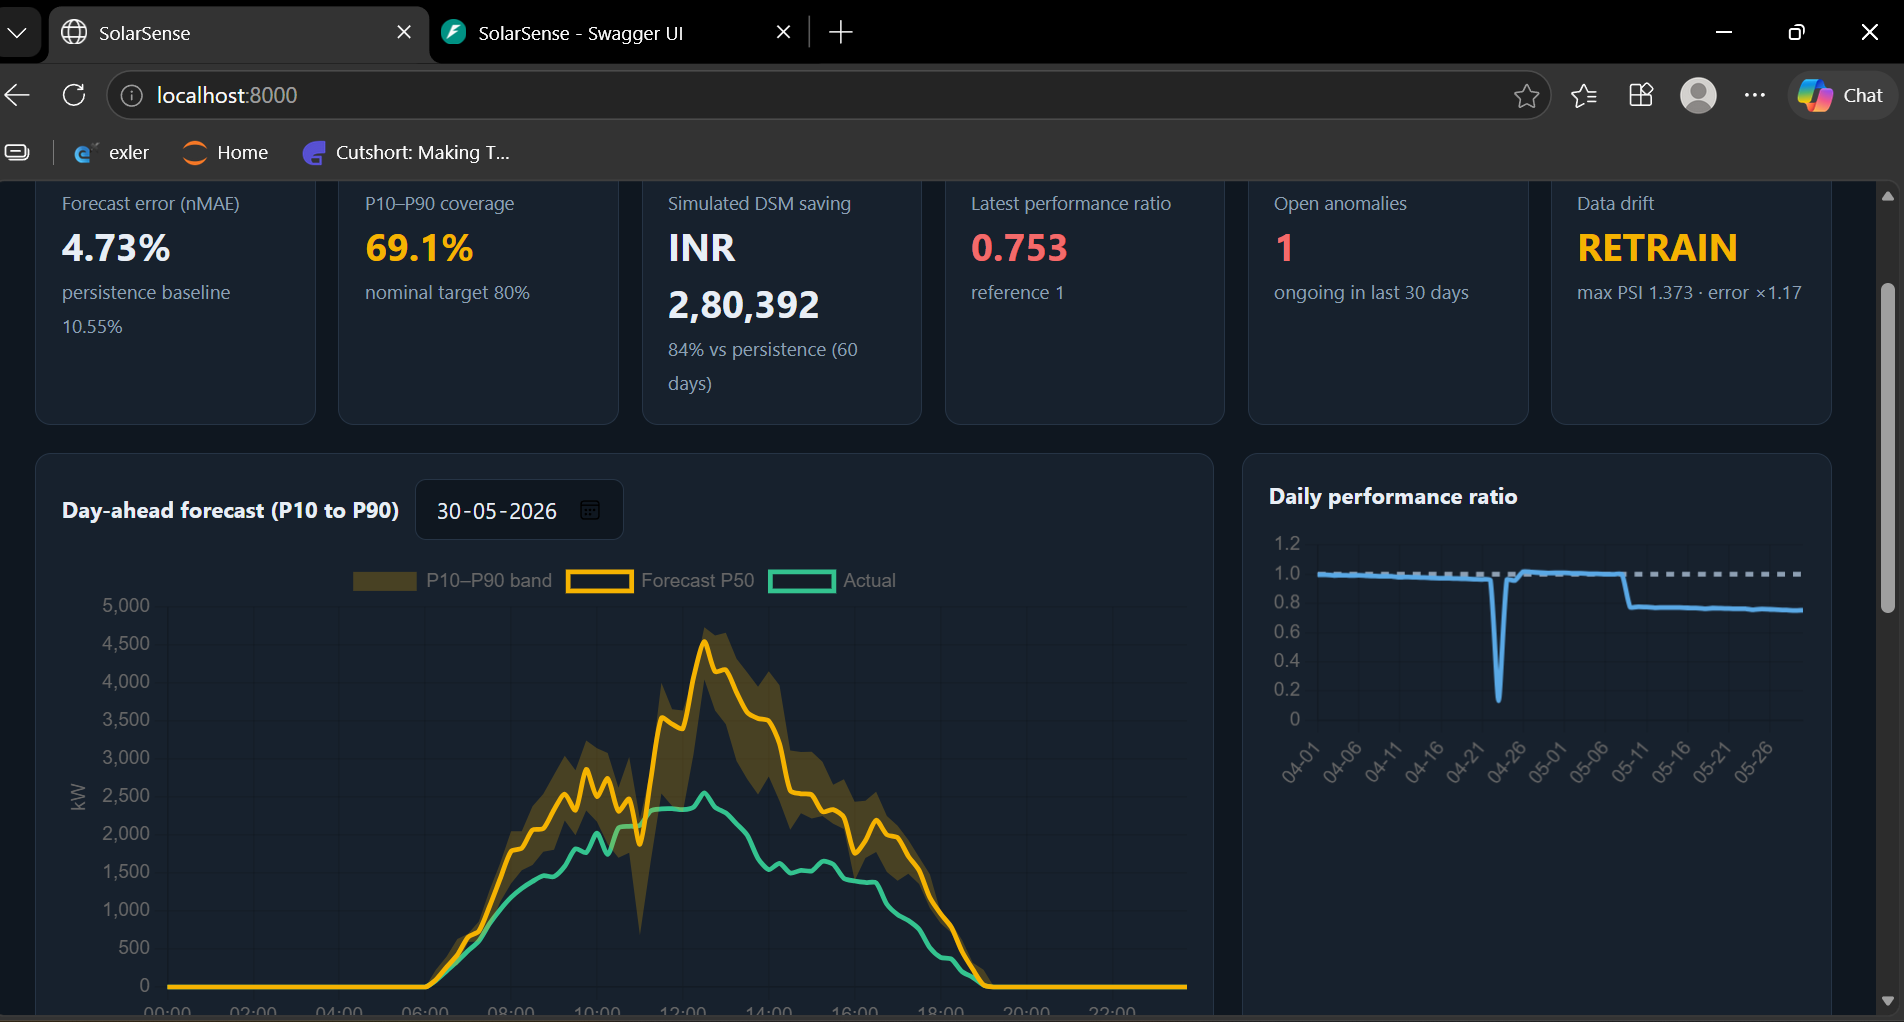
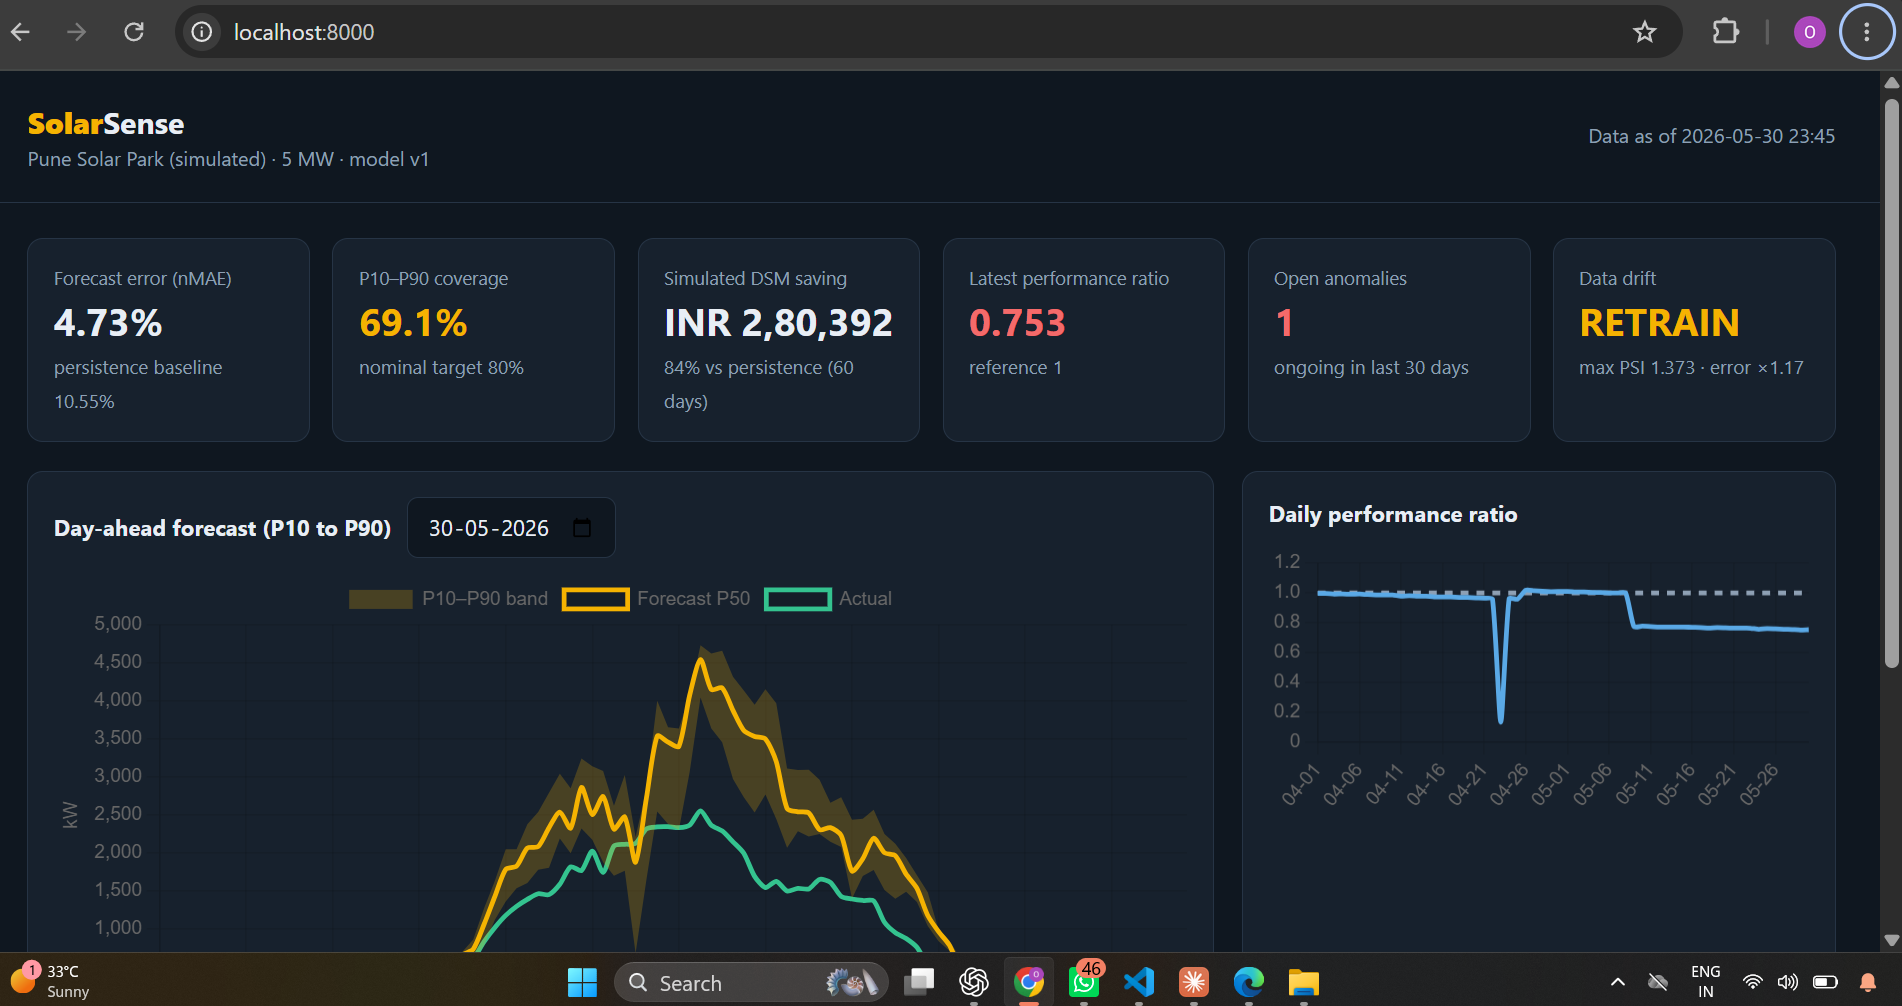
Refactor code structure for improved readability and maintainability

diff --git a/web/index.html b/web/index.html
@@ -10,15 +10,15 @@
 header{padding:18px 28px;border-bottom:1px solid var(--line);display:flex;justify-content:space-between;align-items:center;flex-wrap:wrap;gap:8px}
 h1{font-size:19px;margin:0}h1 b{color:var(--sun)}.sub{color:var(--mut);font-size:12.5px}
 main{padding:22px 28px;display:grid;gap:18px;max-width:1280px;margin:auto}
-.kpis{display:grid;grid-template-columns:repeat(auto-fit,minmax(150px,1fr));gap:14px}
+.kpis{display:grid;grid-template-columns:repeat(auto-fit,minmax(190px,1fr));gap:14px}
 .card{background:var(--card);border:1px solid var(--line);border-radius:10px;padding:16px}
 .kpi small{color:var(--mut);display:block}.kpi strong{font-size:24px}.kpi em{font-style:normal;color:var(--mut);font-size:12px}
-.grid{display:grid;grid-template-columns:2fr 1fr;gap:18px}@media(max-width:900px){.grid{grid-template-columns:1fr}}
+.grid{display:grid;align-items:start;grid-template-columns:2fr 1fr;gap:18px}@media(max-width:900px){.grid{grid-template-columns:1fr}}
 h2{font-size:14px;margin:0 0 10px}canvas{max-height:300px}
 table{width:100%;border-collapse:collapse;font-size:13px}th,td{text-align:left;padding:7px 6px;border-bottom:1px solid var(--line)}th{color:var(--mut);font-weight:500}
 .tag{padding:2px 8px;border-radius:99px;font-size:12px;font-weight:600}
 .t-inverter_outage{background:#4a1f24;color:var(--bad)}.t-string_fault{background:#4a3a14;color:var(--sun)}.t-soiling{background:#1b3a4d;color:var(--blue)}
-button,input{background:#0f1720;color:var(--ink);border:1px solid var(--line);border-radius:7px;padding:7px 12px;font:inherit}
+button,input{color-scheme:dark;background:#0f1720;color:var(--ink);border:1px solid var(--line);border-radius:7px;padding:7px 12px;font:inherit}
 button{cursor:pointer;background:var(--sun);color:#1a1300;border:0;font-weight:600}button:disabled{opacity:.6}
 .wo{border:1px solid var(--line);border-radius:8px;padding:10px;margin-top:10px}.wo ul{margin:6px 0 0 18px;padding:0;color:var(--mut)}
 pre{white-space:pre-wrap;color:var(--ink);margin:8px 0 0;font:inherit}.row{display:flex;gap:10px;align-items:center;flex-wrap:wrap;margin-bottom:10px}
@@ -34,7 +34,7 @@ pre{white-space:pre-wrap;color:var(--ink);margin:8px 0 0;font:inherit}.row{displ
     <div class="card"><h2>Daily performance ratio</h2><canvas id="pr"></canvas></div>
   </section>
   <section class="grid">
-    <div class="card"><h2>Detected anomalies (last 30 days)</h2><table><thead><tr><th>Type</th><th>Start</th><th>Loss</th><th>Revenue lost</th><th>State</th></tr></thead><tbody id="an"></tbody></table></div>
+    <div class="card"><h2>Detected anomalies</h2><table><thead><tr><th>Type</th><th>Start</th><th>Loss</th><th>Revenue lost</th><th>State</th></tr></thead><tbody id="an"></tbody></table></div>
     <div class="card"><div class="row"><h2 style="margin:0">O&amp;M agent</h2><button id="run">Run diagnosis</button></div><div id="agent" class="sub">Scans the plant, quantifies losses, prioritises and drafts work orders.</div></div>
   </section>
 </main>
@@ -47,7 +47,7 @@ const inr=n=>"INR "+Number(n).toLocaleString("en-IN");
 let fcChart,prChart;
 function kpi(label,val,note,cls=""){return `<div class="card kpi"><small>${label}</small><strong class="${cls}">${val}</strong><br><em>${note}</em></div>`}
 async function init(){
-  const [plant,dsm,drift,an,perf]=await Promise.all([j("/api/plant"),j("/api/dsm?days=60"),j("/api/drift"),j("/api/anomalies?days=30"),j("/api/performance?days=60")]);
+  const [plant,dsm,drift,an,perf]=await Promise.all([j("/api/plant"),j("/api/dsm?days=60"),j("/api/drift"),j("/api/anomalies?days=150"),j("/api/performance?days=60")]);
   $("#plant").textContent=`${plant.name} · ${plant.capacity_kw/1000} MW · model v${plant.model_version}`;
   $("#asof").textContent="Data as of "+plant.as_of.slice(0,16);
   const v=plant.validation, open=an.anomalies.filter(a=>a.ongoing).length, lastPr=perf.daily.filter(d=>d.pr!=null).slice(-1)[0];
@@ -56,9 +56,9 @@ async function init(){
     kpi("P10–P90 coverage",v.coverage_p10_p90_pct+"%","nominal target 80%",v.coverage_p10_p90_pct<75?"warn":"ok")+
     kpi("Simulated DSM saving",inr(dsm.savings_inr),`${dsm.reduction_pct}% vs persistence (60 days)`)+
     kpi("Latest performance ratio",lastPr?lastPr.pr.toFixed(3):"n/a",`reference ${perf.reference}`,lastPr&&lastPr.pr<0.9?"bad":"ok")+
-    kpi("Open anomalies",open,"ongoing in last 30 days",open?"bad":"ok")+
+    kpi("Open anomalies",open,"ongoing right now",open?"bad":"ok")+
     kpi("Data drift",drift.status.toUpperCase(),`max PSI ${drift.max_psi} · error ×${drift.error_ratio??"n/a"}`,drift.status==="ok"?"ok":"warn");
-  $("#an").innerHTML=an.anomalies.map(a=>`<tr><td><span class="tag t-${a.kind}">${esc(a.kind.replace("_"," "))}</span></td><td>${a.start.slice(0,10)}</td><td>${a.severity_pct}%</td><td>${inr(a.lost_inr)}</td><td class="${a.ongoing?"bad":"ok"}">${a.ongoing?"ONGOING":"resolved"}</td></tr>`).join("")||`<tr><td colspan="5" class="ok">No anomalies</td></tr>`;
+  $("#an").innerHTML=[...an.anomalies].reverse().map(a=>`<tr><td><span class="tag t-${a.kind}">${esc(a.kind.replace("_"," "))}</span></td><td>${a.start.slice(0,10)}</td><td>${a.severity_pct}%</td><td>${inr(a.lost_inr)}</td><td class="${a.ongoing?"bad":"ok"}">${a.ongoing?"ONGOING":"resolved"}</td></tr>`).join("")||`<tr><td colspan="5" class="ok">No anomalies</td></tr>`;
   const dd=perf.daily.filter(d=>d.pr!=null);
   prChart=new Chart($("#pr"),{type:"line",data:{labels:dd.map(d=>d.date.slice(5)),datasets:[{data:dd.map(d=>d.pr),borderColor:"#5aa9e6",pointRadius:0,tension:.2},{data:dd.map(()=>perf.reference),borderColor:"#8ea0b4",borderDash:[5,5],pointRadius:0}]},options:{plugins:{legend:{display:false}},scales:{y:{suggestedMin:0.7,suggestedMax:1.05}}}});
   const day=plant.as_of.slice(0,10); $("#day").value=day; $("#day").min=plant.model.train_start.slice(0,10); $("#day").max=day;
